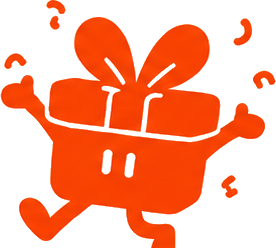
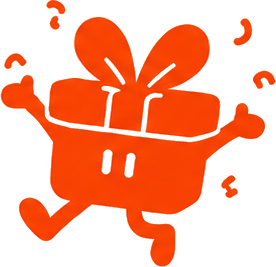
Обучающий тур с подсветкой области вместо сплошного блюра
- вырез рисуется тенью вокруг рамки (решение из проекта «ЛМ воронка»), блюр — панелями вокруг
- карточка встаёт над или под областью и показывает на неё стрелкой
- туры: Главная (поводы, поиск, разбор четырёх вкладок меню), Вишлист, Профиль
- шаги с объединением нескольких элементов в одну область
- маскоты перенарезаны по связным компонентам: убраны обрезки соседних фигур

diff --git a/js/screens/coach.js b/js/screens/coach.js
@@ -1,101 +1,211 @@
-// ── Обучающие подсказки: «куда я попал и что тут можно» ──────────────
-// Показываются один раз: общая по нижнему меню + по одной на Главной,
-// в Вишлисте и в Профиле. Факт показа хранится в состоянии пользователя.
+// ── Обучающий тур: подсветка области + блюр вокруг ───────────────────
+// Механика подсмотрена в проекте «ЛМ воронка» (components/Tour.tsx):
+// вырез рисуем не clip-path, а огромной тенью вокруг рамки — так у выреза
+// настоящее скругление. Блюр добавляем четырьмя панелями вокруг выреза.
 import { tipSeen, markTip, track } from '../store.js';
 import { $, mascot, esc } from '../ui.js';
 import { tg } from '../tg.js';
 
-const TIPS = {
-  menu: {
-    mascot: 'wave', spot: true, title: 'привет! это та-дам',
-    sub: 'Помогаю придумать подарок за пару секунд. Внизу — четыре раздела:',
-    items: [
-      ['🏠', 'Главная', 'Поводы и идеи подарков. Отсюда всё начинается'],
-      ['💖', 'Вишлист', 'Твои желания и намёки близким'],
-      ['🎡', 'Колесо', 'Бесплатный спин раз в день — бонусы и скидки'],
-      ['👤', 'Профиль', 'Важные даты, доступ, награды и настройки']
-    ]
-  },
-  home: {
-    mascot: 'search', title: 'как искать подарок',
-    sub: 'Повод — главная дверь. Дальше всё за пару касаний:',
-    items: [
-      ['🎂', 'Выбери повод', 'Три открыты сразу, остальные — под замком'],
-      ['🎛', 'Сузь фильтрами', 'Кому, бюджет, интересы'],
-      ['🤍', 'Жми на сердечко', 'Идея улетает в твой вишлист'],
-      ['🔍', 'Или ищи словом', 'Например «кофе» или «плед»']
-    ]
-  },
-  wishlist: {
-    mascot: 'heart', title: 'зачем вишлист',
-    sub: 'Это список желаний — твоих и для близких:',
-    items: [
-      ['💖', 'Копи идеи', 'Сохраняй из подборок или добавляй свои'],
-      ['💌', 'Намекни', 'Карточка-намёк уходит близкому прямо в Telegram'],
-      ['🔗', 'Поделись ссылкой', 'Её видно только тем, кому отправил — и можно отозвать']
-    ]
-  },
-  profile: {
-    mascot: 'notes', title: 'что в профиле',
-    sub: 'Всё, что возвращает тебя вовремя:',
-    items: [
-      ['📅', 'Важные даты', 'Добавь дни рождения — напомним заранее'],
-      ['⭐', 'Мой доступ', 'Что открыто сейчас и как открыть остальное'],
-      ['🎁', 'Награды', 'Бонусы из колеса и за заполненный профиль'],
-      ['✅', 'Заполни и получи', 'Три шага — и открываем категорию на 24 часа']
-    ]
-  }
+// sel — что подсветить, pad — отступ вокруг, place — где предпочтительно карточка
+const TOURS = {
+  home: [
+    { sel: '.cats .cat', take: 4, pad: 8, radius: 26, place: 'below', mascot: 'search',
+      title: 'повод — главная дверь',
+      text: 'Выбери, по какому случаю ищешь подарок. Три повода открыты сразу, остальные — под замком premium. Внутри повода идеи можно сузить фильтрами: кому, бюджет, интересы.' },
+    { sel: '.search', pad: 6, radius: 999, place: 'below', mascot: 'think',
+      title: 'или ищи словом',
+      text: 'Напиши «кофе», «плед» или «фотосессия» — покажу идеи из всех открытых поводов.' },
+    { sel: '[data-tab="home"]', pad: 4, radius: 16, place: 'above', mascot: 'wave',
+      title: 'главная',
+      text: 'Сюда возвращаешься за новой идеей: все поводы и поиск.' },
+    { sel: '[data-tab="wishlist"]', pad: 4, radius: 16, place: 'above', mascot: 'heart',
+      title: 'вишлист',
+      text: 'Твои желания и сохранённые идеи. Отсюда же уходит намёк близкому.' },
+    { sel: '[data-tab="wheel"]', pad: 4, radius: 16, place: 'above', mascot: 'wow',
+      title: 'колесо',
+      text: 'Бесплатный спин раз в день: категория на 24 часа, подборка или скидка на premium.' },
+    { sel: '[data-tab="profile"]', pad: 4, radius: 16, place: 'above', mascot: 'notes',
+      title: 'профиль',
+      text: 'Важные даты и напоминания, твой доступ, награды и настройки.' }
+  ],
+  wishlist: [
+    { sel: '.rows, .empty', take: 3, pad: 8, radius: 24, place: 'below', maxH: 0.42, mascot: 'heart',
+      title: 'тут копятся желания',
+      text: 'Сохраняй идеи из подборок сердечком или добавляй свои — например «плёночный фотоаппарат».' },
+    { sel: '#hintAll', pad: 6, radius: 999, place: 'above', mascot: 'bubble',
+      title: 'намекни',
+      text: 'Карточка-намёк уходит близкому прямо в Telegram: он увидит идею и откроет её у себя.' },
+    { sel: '#share', pad: 6, radius: 999, place: 'above', mascot: 'peek',
+      title: 'ссылка на список',
+      text: 'Её видит только тот, кому отправил. В любой момент можно отозвать — старая ссылка перестанет открываться.' }
+  ],
+  profile: [
+    { sel: '[data-go="dates"]', pad: 4, radius: 14, place: 'below', mascot: 'notes',
+      title: 'важные даты',
+      text: 'Добавь дни рождения близких — напомним заранее, чтобы не бежать за подарком в последний вечер.' },
+    { sel: '[data-go="paywall"]', pad: 4, radius: 14, place: 'below', mascot: 'cool',
+      title: 'мой доступ',
+      text: 'Что открыто сейчас и как открыть все 13 поводов со всеми фильтрами.' },
+    { sel: '[data-go="quest"]', pad: 4, radius: 14, place: 'above', mascot: 'alert',
+      title: 'заполни и получи',
+      text: 'Три шага — три даты, первый вишлист и подарок мечты. За это открываем premium-категорию на 24 часа.' }
+  ]
 };
 
-let showing = false;
+let active = false;
 
-export function showTip(key, onDone) {
-  const t = TIPS[key];
-  if (!t || showing) return onDone?.();
-  showing = true;
-  track('coach_viewed', { key });
+function topSafe() {
+  const v = parseFloat(getComputedStyle(document.documentElement).getPropertyValue('--safe-top')) || 0;
+  return v + 12;
+}
 
-  const bg = document.createElement('div');
-  bg.className = 'coach-bg';
-  const box = document.createElement('div');
-  box.className = 'coach' + (t.spot ? '' : ' coach--center');
-  box.innerHTML = `
-    <div class="coach__card">
-      ${mascot(t.mascot, 'coach__mascot')}
-      <div class="coach__title">${esc(t.title)}</div>
-      <div class="coach__sub">${esc(t.sub)}</div>
-      <div class="coach__list">
-        ${t.items.map(([ico, name, desc]) => `
-          <div class="coach__item">
-            <div class="coach__ico">${ico}</div>
-            <div><div class="coach__t">${esc(name)}</div><div class="coach__d">${esc(desc)}</div></div>
-          </div>`).join('')}
+export function startTour(name, onDone) {
+  const steps = TOURS[name];
+  if (!steps || active) return onDone?.();
+  active = true;
+  track('coach_viewed', { name });
+
+  const root = document.createElement('div');
+  root.className = 'tour';
+  root.innerHTML = `
+    <span class="tour__blur" data-b="t"></span><span class="tour__blur" data-b="b"></span>
+    <span class="tour__blur" data-b="l"></span><span class="tour__blur" data-b="r"></span>
+    <span class="tour__dim"></span>
+    <span class="tour__ring"></span>
+    <span class="tour__catch"></span>
+    <div class="tour__wrap">
+      <div class="tour__card">
+        <i class="tour__arrow"></i>
+        <div class="tour__head">
+          <img class="tour__mascot" alt="">
+          <div>
+            <div class="tour__n"></div>
+            <div class="tour__title bups"></div>
+          </div>
+        </div>
+        <p class="tour__text"></p>
+        <div class="tour__ft">
+          <span class="tour__dots">${steps.map(() => '<i></i>').join('')}</span>
+          <button class="tour__skip" type="button">Пропустить</button>
+          <button class="tour__next" type="button">Далее</button>
+        </div>
       </div>
-      <button class="btn" data-ok>Понятно</button>
     </div>`;
+  document.body.appendChild(root);
 
-  const bar = $('#tabbar');
-  if (t.spot) bar?.classList.add('tabbar--spot');
-  document.body.append(bg, box);
-  tg.haptic('light');
+  const q = s => root.querySelector(s);
+  const blur = { t: q('[data-b="t"]'), b: q('[data-b="b"]'), l: q('[data-b="l"]'), r: q('[data-b="r"]') };
+  const dim = q('.tour__dim'), ring = q('.tour__ring'), wrap = q('.tour__wrap');
+  const card = q('.tour__card'), arrow = q('.tour__arrow');
 
-  const close = () => {
-    bar?.classList.remove('tabbar--spot');
-    bg.remove(); box.remove();
-    showing = false;
-    markTip(key);
+  let i = 0, cleanupScroll = null;
+
+  function finish() {
+    cleanupScroll?.();
+    root.remove();
+    active = false;
+    markTip(name);
     onDone?.();
+  }
+  function next() { if (i + 1 < steps.length) { i++; render(); } else finish(); }
+
+  q('.tour__skip').onclick = e => { e.stopPropagation(); track('coach_skipped', { name, step: i }); finish(); };
+  q('.tour__next').onclick = e => { e.stopPropagation(); next(); };
+  q('.tour__catch').onclick = next;
+
+  function place() {
+    const s = steps[i];
+    const el = document.querySelector(s.sel);
+    const vw = window.innerWidth, vh = window.innerHeight;
+
+    if (!el) {                                    // элемента нет — просто затемняем
+      Object.values(blur).forEach(b => b.style.cssText = 'left:0;top:0;right:0;bottom:0');
+      dim.style.opacity = '0'; ring.style.opacity = '0'; arrow.style.display = 'none';
+      wrap.style.top = Math.max(topSafe(), (vh - card.offsetHeight) / 2) + 'px';
+      return;
+    }
+
+    let b = el.getBoundingClientRect();
+    if (s.take > 1) {                             // объединяем первые N элементов в один вырез
+      const list = [...document.querySelectorAll(s.sel)].slice(0, s.take).map(n => n.getBoundingClientRect());
+      if (list.length > 1) {
+        const L = Math.min(...list.map(n => n.left)), T = Math.min(...list.map(n => n.top));
+        const R = Math.max(...list.map(n => n.right)), B = Math.max(...list.map(n => n.bottom));
+        b = { left: L, top: T, width: R - L, height: B - T, right: R, bottom: B };
+      }
+    }
+    const pad = s.pad ?? 6;
+    const cap = (s.maxH || 0.6) * vh;
+    const x = Math.max(4, b.left - pad);
+    const y = Math.max(topSafe() - 8, b.top - pad);
+    const w = Math.min(vw - 8, b.width + pad * 2);
+    const h = Math.min(cap, b.height + pad * 2);
+    const rad = Math.min(s.radius ?? 18, h / 2, w / 2);
+
+    const box = `left:${x}px;top:${y}px;width:${w}px;height:${h}px;border-radius:${rad}px`;
+    dim.style.cssText = box; ring.style.cssText = box;
+    dim.style.opacity = ring.style.opacity = '1';
+
+    // блюр — четырьмя панелями вокруг выреза
+    blur.t.style.cssText = `left:0;top:0;width:${vw}px;height:${Math.max(0, y)}px`;
+    blur.b.style.cssText = `left:0;top:${y + h}px;width:${vw}px;height:${Math.max(0, vh - y - h)}px`;
+    blur.l.style.cssText = `left:0;top:${y}px;width:${Math.max(0, x)}px;height:${h}px`;
+    blur.r.style.cssText = `left:${x + w}px;top:${y}px;width:${Math.max(0, vw - x - w)}px;height:${h}px`;
+
+    // карточка: предпочтительная сторона, иначе противоположная, иначе край
+    const ch = card.offsetHeight, gap = 16, hi = topSafe(), lo = 12;
+    const below = y + h + gap, above = y - gap - ch;
+    const fitsBelow = below + ch <= vh - lo, fitsAbove = above >= hi;
+    let top = s.place === 'below'
+      ? (fitsBelow ? below : fitsAbove ? above : vh - ch - lo)
+      : (fitsAbove ? above : fitsBelow ? below : vh - ch - lo);
+    top = Math.min(Math.max(top, hi), Math.max(hi, vh - ch - lo));
+    wrap.style.top = top + 'px';
+
+    // стрелка к подсвеченной области
+    const pointsUp = top > y;                     // карточка ниже выреза → стрелка вверх
+    const cx = x + w / 2 - 14;                    // 14px — отступ .tour__wrap
+    arrow.style.display = 'block';
+    arrow.className = 'tour__arrow ' + (pointsUp ? 'tour__arrow--up' : 'tour__arrow--down');
+    arrow.style.left = Math.min(Math.max(cx, 22), vw - 28 - 14) + 'px';
+  }
+
+  function render() {
+    const s = steps[i];
+    q('.tour__mascot').src = `assets/mascots/${s.mascot || 'wave'}.png`;
+    q('.tour__n').textContent = `Шаг ${i + 1} из ${steps.length}`;
+    q('.tour__title').textContent = s.title;
+    q('.tour__text').textContent = s.text;
+    q('.tour__next').textContent = i + 1 < steps.length ? 'Далее' : 'Понятно';
+    root.querySelectorAll('.tour__dots i').forEach((d, k) => d.classList.toggle('on', k === i));
+    tg.haptic('light');
+
+    const el = document.querySelector(s.sel);
+    el?.scrollIntoView({ block: 'center', behavior: 'smooth' });
+    if (s.take > 1) {
+      const last = [...document.querySelectorAll(s.sel)].slice(0, s.take).pop();
+      if (last) last.scrollIntoView({ block: 'nearest', behavior: 'smooth' });
+    }
+    place();
+    setTimeout(place, 120);
+    setTimeout(place, 420);
+  }
+
+  const onMove = () => place();
+  window.addEventListener('resize', onMove);
+  window.addEventListener('scroll', onMove, true);
+  cleanupScroll = () => {
+    window.removeEventListener('resize', onMove);
+    window.removeEventListener('scroll', onMove, true);
   };
-  box.querySelector('[data-ok]').onclick = close;
-  bg.onclick = close;
+
+  render();
 }
 
-// Показывает нужные подсказки для экрана — по одной, очередью.
+// Тур для экрана — только при первом заходе
 export function maybeShowTips(screen) {
-  const queue = (screen === 'home' ? ['menu', 'home'] : [screen]).filter(k => !tipSeen(k));
-  if (!queue.length) return;
-  const next = () => { const k = queue.shift(); if (k) showTip(k, next); };
-  setTimeout(next, 420);           // даём экрану отрисоваться
+  if (!TOURS[screen] || tipSeen(screen)) return;
+  setTimeout(() => startTour(screen), 450);      // даём экрану отрисоваться
 }
 
-export function tipsList() { return Object.keys(TIPS); }
+export function tourFor(screen) { return TOURS[screen]; }

diff --git a/styles.css b/styles.css
@@ -201,23 +201,32 @@ h1,h2,h3,h4{margin:0}
 .skeleton{background:linear-gradient(90deg,#F1E6D6,#F8F0E4,#F1E6D6);background-size:200% 100%;animation:sk 1.1s infinite;border-radius:12px;height:56px}
 @keyframes sk{from{background-position:200% 0}to{background-position:-200% 0}}
 
-/* ── обучающие подсказки (coach marks) ──────────────────────────── */
-.coach-bg{position:fixed;inset:0;z-index:110;background:rgba(112,39,32,.45);
-  -webkit-backdrop-filter:blur(7px) saturate(.9);backdrop-filter:blur(7px) saturate(.9);animation:fade .2s}
-.coach{position:fixed;left:0;right:0;bottom:calc(var(--tab-h) + var(--safe-bottom) + 14px);
-  z-index:131;padding:0 var(--pad);animation:up .3s cubic-bezier(.2,.9,.3,1)}
-.coach--center{top:0;bottom:0;display:flex;align-items:center;animation:fade .25s}
-.coach--center .coach__card{width:100%;max-height:82vh;overflow:auto}
-.coach__card{background:var(--oat);border-radius:24px;padding:20px 18px;box-shadow:0 12px 40px rgba(112,39,32,.28)}
-.coach__title{font-family:'Bups','Nunito',sans-serif;font-size:23px;color:var(--mango);line-height:1.15;margin-bottom:6px}
-.coach__sub{color:var(--muted);font-size:14px;margin-bottom:14px}
-.coach__list{display:grid;gap:11px;margin-bottom:16px}
-.coach__item{display:flex;gap:11px;align-items:flex-start}
-.coach__ico{font-size:18px;line-height:1.2;width:24px;text-align:center;flex:0 0 auto}
-.coach__t{font-weight:800;font-size:14px}
-.coach__d{color:var(--muted);font-size:13px}
-.coach__mascot{width:74px;margin:0 auto 8px}
-.coach__step{color:var(--muted);font-size:12px;font-weight:700;text-align:center;margin-top:10px}
-.tabbar--spot{z-index:130;box-shadow:0 -6px 30px rgba(112,39,32,.35);background:var(--oat)}
-.tabbar--spot .tab{color:var(--coffee)}
-.tabbar--spot .tab--on{color:var(--mango)}
+/* ── обучающий тур: подсветка области + блюр вокруг ─────────────── */
+.tour{position:fixed;inset:0;z-index:140}
+.tour__blur{position:absolute;-webkit-backdrop-filter:blur(6px) saturate(.92);backdrop-filter:blur(6px) saturate(.92)}
+/* затемнение рисуем огромной тенью вокруг выреза: так у него настоящее скругление */
+.tour__dim{position:absolute;background:transparent;box-shadow:0 0 0 9999px rgba(112,39,32,.52);
+  transition:all .32s cubic-bezier(.3,.8,.4,1)}
+.tour__ring{position:absolute;border:2px solid var(--mango);pointer-events:none;
+  box-shadow:0 0 0 4px rgba(247,65,1,.18),0 0 26px rgba(247,65,1,.30);
+  transition:all .32s cubic-bezier(.3,.8,.4,1)}
+.tour__catch{position:absolute;inset:0}
+.tour__wrap{position:absolute;left:14px;right:14px;transition:top .32s cubic-bezier(.3,.8,.4,1)}
+.tour__card{position:relative;background:var(--oat);border-radius:22px;padding:16px 16px 14px;
+  box-shadow:0 20px 50px -12px rgba(112,39,32,.55);animation:fade .22s}
+.tour__arrow{position:absolute;width:0;height:0;border-left:11px solid transparent;border-right:11px solid transparent}
+.tour__arrow--up{top:-11px;border-bottom:12px solid var(--oat)}
+.tour__arrow--down{bottom:-11px;border-top:12px solid var(--oat)}
+.tour__head{display:flex;gap:11px;align-items:center;margin-bottom:9px}
+.tour__mascot{width:50px;height:auto;flex:0 0 auto}
+.tour__n{font-size:10px;letter-spacing:.14em;text-transform:uppercase;color:var(--muted);font-weight:800}
+.tour__title{font-size:21px;color:var(--mango);line-height:1.15;margin-top:2px}
+.tour__text{font-size:14px;line-height:1.5;color:var(--coffee);margin:0}
+.tour__ft{display:flex;align-items:center;gap:10px;margin-top:14px}
+.tour__dots{display:flex;gap:5px;flex:1}
+.tour__dots i{width:6px;height:6px;border-radius:50%;background:#E0CDB6}
+.tour__dots i.on{background:var(--mango);width:18px;border-radius:3px}
+.tour__skip{font-size:13px;color:var(--muted);background:none;border:0;cursor:pointer;padding:6px 2px;font-weight:700}
+.tour__next{font-size:14px;font-weight:800;color:#fff;background:var(--mango);border:0;cursor:pointer;
+  padding:11px 20px;border-radius:999px}
+.tour__next:active{background:var(--mango-dark)}

diff --git a/index.html b/index.html
@@ -6,7 +6,7 @@
 <meta name="theme-color" content="#FBF3E8">
 <title>Та-дам — и подарок готов</title>
 <link rel="icon" href="assets/img/logo-icon.png">
-<link rel="stylesheet" href="styles.css?v=5">
+<link rel="stylesheet" href="styles.css?v=6">
 <script src="https://telegram.org/js/telegram-web-app.js"></script>
 </head>
 <body>
@@ -18,6 +18,6 @@
   <nav id="tabbar" class="tabbar" hidden></nav>
   <div id="sheet-root"></div>
   <div id="toast-root"></div>
-  <script type="module" src="js/app.js?v=5"></script>
+  <script type="module" src="js/app.js?v=6"></script>
 </body>
 </html>
